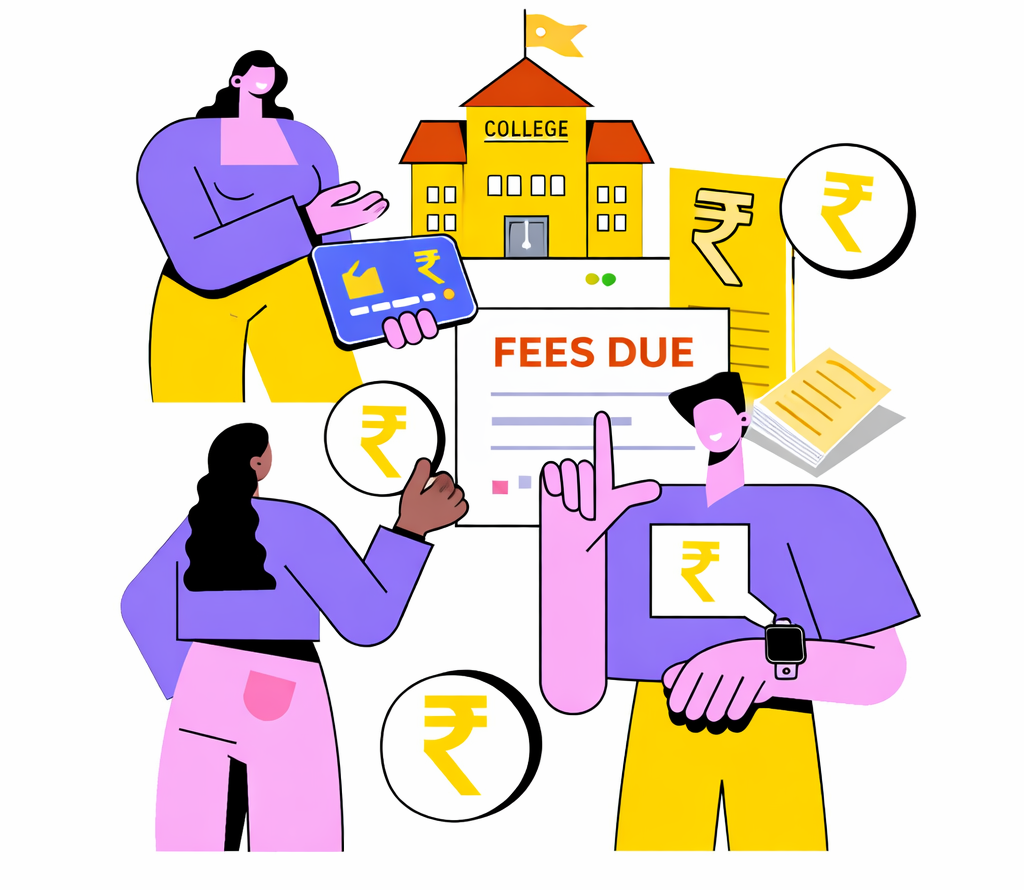
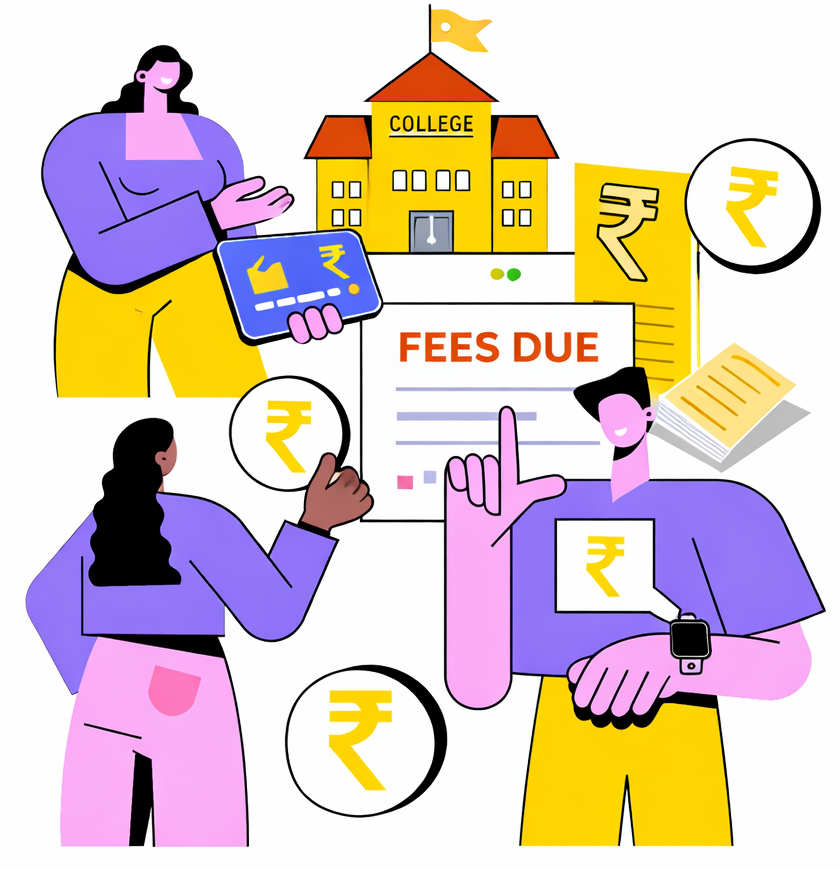
refactor(student-console): polish fee-due declaration dialog
- Re-crop fee-due-illustration.png tightly around the artwork (heading
  and white margins gone) and render it whole with contain sizing
  instead of cover, so nothing is cut off.
- Body/declaration text down to 13px for breathing room.
- Dues shown as a real table (Sr No, Academic Year, Receipt, Semester,
  Amount) with a Total Due footer row; inner scroll removed so the
  total is never clipped.

diff --git a/apps/student-console/src/app/(console)/dashboard/exams/fees-due-alert-dialog.tsx b/apps/student-console/src/app/(console)/dashboard/exams/fees-due-alert-dialog.tsx
@@ -25,17 +25,6 @@ const formatInr = (value: number): string =>
     maximumFractionDigits: 0,
   }).format(Number(value || 0));
 
-const feeSubtitle = (fee: StudentDueFee): string =>
-  [
-    fee.feeStructure?.class?.name,
-    fee.feeStructure?.academicYear?.year,
-    fee.type === "INSTALLMENT" && fee.feeStructureInstallment?.name
-      ? fee.feeStructureInstallment.name
-      : null,
-  ]
-    .filter(Boolean)
-    .join(" · ");
-
 const toISODate = (d: Date): string => {
   const y = d.getFullYear();
   const m = String(d.getMonth() + 1).padStart(2, "0");
@@ -124,25 +113,27 @@ export function FeesDueAlertDialog({
           breathe; the right column scrolls if it ever overflows. */}
       <AlertDialogContent className="max-w-5xl overflow-hidden p-0">
         <div className="flex max-h-[90vh] min-h-[620px] flex-col sm:flex-row">
-          {/* Left: illustration filling the full height of the dialog (cover, not centered) */}
-          <div className="relative h-48 w-full flex-shrink-0 bg-violet-50 sm:h-auto sm:w-[40%]">
+          {/* Left: illustration shown whole (tightly cropped source, contain — not
+              cover — so nothing gets cut off), centered in its column */}
+          <div className="flex w-full flex-shrink-0 items-center justify-center bg-white p-4 sm:w-[40%] sm:p-6">
             <Image
               src={`${process.env.NEXT_PUBLIC_URL}/fee-due-illustration.png`}
               alt="Pending fees illustration"
-              fill
+              width={840}
+              height={870}
               priority
               unoptimized
-              className="object-cover object-top"
+              className="h-auto max-h-48 w-auto sm:max-h-full sm:w-full"
             />
           </div>
 
           {/* Right: notification + dues + declaration + actions */}
           <div className="flex min-w-0 flex-1 flex-col overflow-y-auto p-6 sm:p-8">
             <AlertDialogHeader className="space-y-3 text-left sm:text-left">
-              <AlertDialogTitle className="text-xl font-semibold text-rose-700 sm:text-2xl">
+              <AlertDialogTitle className="text-xl font-semibold text-rose-700">
                 Important Notification:
               </AlertDialogTitle>
-              <AlertDialogDescription className="space-y-3 text-sm leading-relaxed text-gray-600 sm:text-[15px]">
+              <AlertDialogDescription className="space-y-3 text-[13px] leading-relaxed text-gray-600">
                 <span className="block">
                   As per our records, your Semester{" "}
                   <span className="font-semibold text-gray-800">{semesterDisplay}</span> enrolment
@@ -162,34 +153,56 @@ export function FeesDueAlertDialog({
               </AlertDialogDescription>
             </AlertDialogHeader>
 
-            {/* Breakdown of what's due */}
+            {/* Breakdown of what's due — plain table, no inner scroll so the
+                Total row is never clipped (the whole right column scrolls) */}
             {visibleFees.length > 0 && (
               <div className="mt-5 overflow-hidden rounded-lg border border-gray-200">
-                <div className="max-h-36 divide-y divide-gray-100 overflow-y-auto">
-                  {visibleFees.map((fee) => {
-                    const subtitle = feeSubtitle(fee);
-                    return (
-                      <div
-                        key={fee.id}
-                        className="flex items-center justify-between gap-3 px-4 py-2.5"
-                      >
-                        <div className="min-w-0">
-                          <p className="truncate text-sm font-medium text-gray-800">
-                            {fee.feeStructure?.receiptType?.name ?? "Fee"}
-                          </p>
-                          {subtitle && <p className="truncate text-xs text-gray-500">{subtitle}</p>}
-                        </div>
-                        <span className="whitespace-nowrap text-sm font-semibold text-gray-800">
+                <table className="w-full text-left text-[13px]">
+                  <thead className="bg-gray-50 text-[11px] uppercase tracking-wide text-gray-500">
+                    <tr>
+                      <th className="px-3 py-2 font-medium">Sr No</th>
+                      <th className="px-3 py-2 font-medium">Academic Year</th>
+                      <th className="px-3 py-2 font-medium">Receipt</th>
+                      <th className="px-3 py-2 font-medium">Semester</th>
+                      <th className="px-3 py-2 text-right font-medium">Amount</th>
+                    </tr>
+                  </thead>
+                  <tbody className="divide-y divide-gray-100">
+                    {visibleFees.map((fee, index) => (
+                      <tr key={fee.id}>
+                        <td className="px-3 py-2 text-gray-600">{index + 1}</td>
+                        <td className="px-3 py-2 text-gray-600">
+                          {fee.feeStructure?.academicYear?.year ?? "—"}
+                        </td>
+                        <td className="px-3 py-2 font-medium text-gray-800">
+                          {fee.feeStructure?.receiptType?.name ?? "Fee"}
+                          {fee.type === "INSTALLMENT" && fee.feeStructureInstallment?.name
+                            ? ` (${fee.feeStructureInstallment.name})`
+                            : ""}
+                        </td>
+                        <td className="px-3 py-2 text-gray-600">
+                          {String(fee.feeStructure?.class?.name ?? "—").replace(
+                            /^SEMESTER\s*/i,
+                            "",
+                          )}
+                        </td>
+                        <td className="px-3 py-2 text-right font-semibold text-gray-800">
                           {formatInr(fee.totalPayable)}
-                        </span>
-                      </div>
-                    );
-                  })}
-                </div>
-                <div className="flex items-center justify-between border-t border-gray-200 bg-rose-50/70 px-4 py-2.5">
-                  <span className="text-sm font-semibold text-gray-700">Total Due</span>
-                  <span className="text-base font-bold text-rose-600">{formatInr(totalDue)}</span>
-                </div>
+                        </td>
+                      </tr>
+                    ))}
+                  </tbody>
+                  <tfoot>
+                    <tr className="border-t border-gray-200 bg-rose-50/70">
+                      <td colSpan={4} className="px-3 py-2 font-semibold text-gray-700">
+                        Total Due
+                      </td>
+                      <td className="px-3 py-2 text-right font-bold text-rose-600">
+                        {formatInr(totalDue)}
+                      </td>
+                    </tr>
+                  </tfoot>
+                </table>
               </div>
             )}
 
@@ -203,7 +216,7 @@ export function FeesDueAlertDialog({
               </p>
               {/* The date input must NOT live inside the label, else clicking it
                 toggles the checkbox instead of opening the picker. */}
-              <div className="flex items-start gap-3 text-sm leading-relaxed text-gray-700">
+              <div className="flex items-start gap-3 text-[13px] leading-relaxed text-gray-700">
                 <input
                   id="fee-due-ack"
                   type="checkbox"
@@ -223,14 +236,14 @@ export function FeesDueAlertDialog({
                     min={minDate}
                     max={maxDate}
                     onChange={(e) => setClearByDate(e.target.value)}
-                    className="inline-block rounded-md border border-gray-300 bg-white px-2 py-0.5 text-sm focus:border-indigo-500 focus:outline-none"
+                    className="inline-block rounded-md border border-gray-300 bg-white px-2 py-0.5 text-[13px] focus:border-indigo-500 focus:outline-none"
                   />
                   <label htmlFor="fee-due-ack" className="cursor-pointer">
                     .
                   </label>
                 </span>
               </div>
-              <label className="flex cursor-pointer items-start gap-3 text-sm leading-relaxed text-gray-700">
+              <label className="flex cursor-pointer items-start gap-3 text-[13px] leading-relaxed text-gray-700">
                 <input
                   type="checkbox"
                   checked={consequenceChecked}
